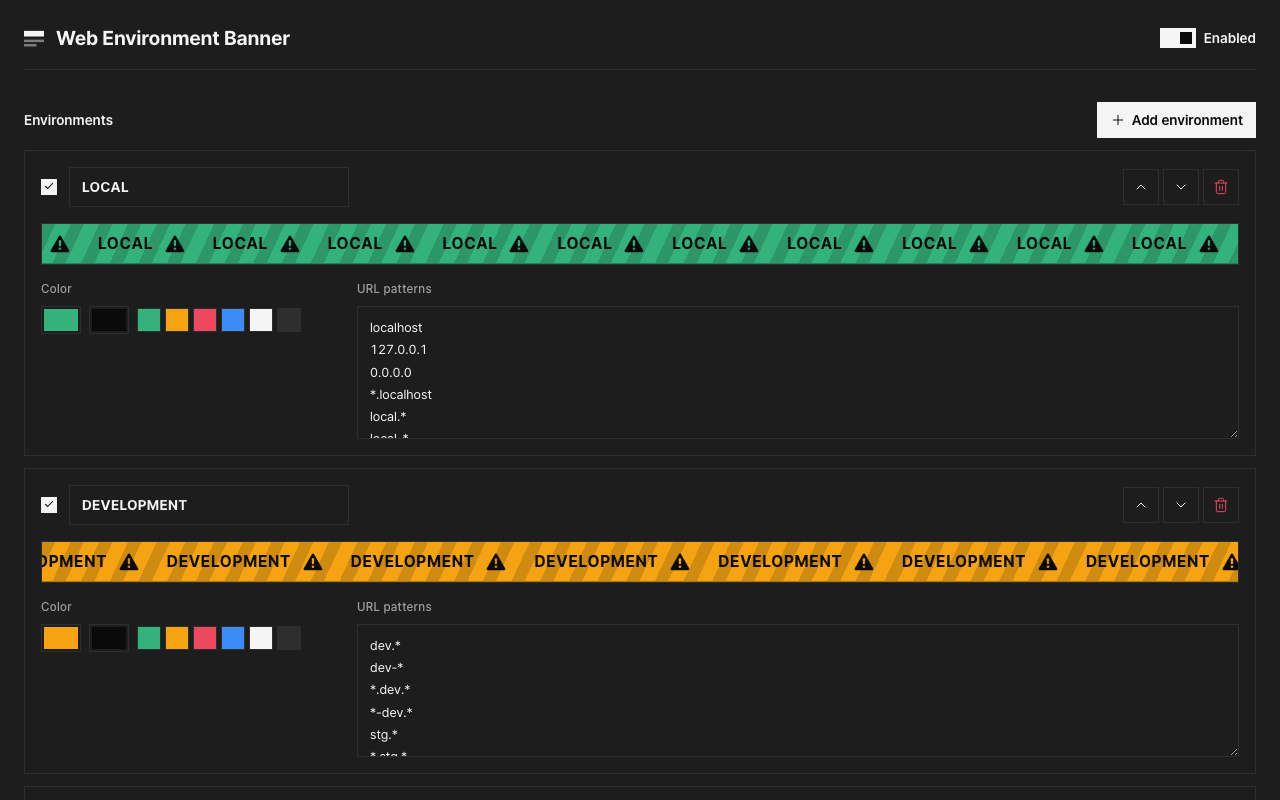
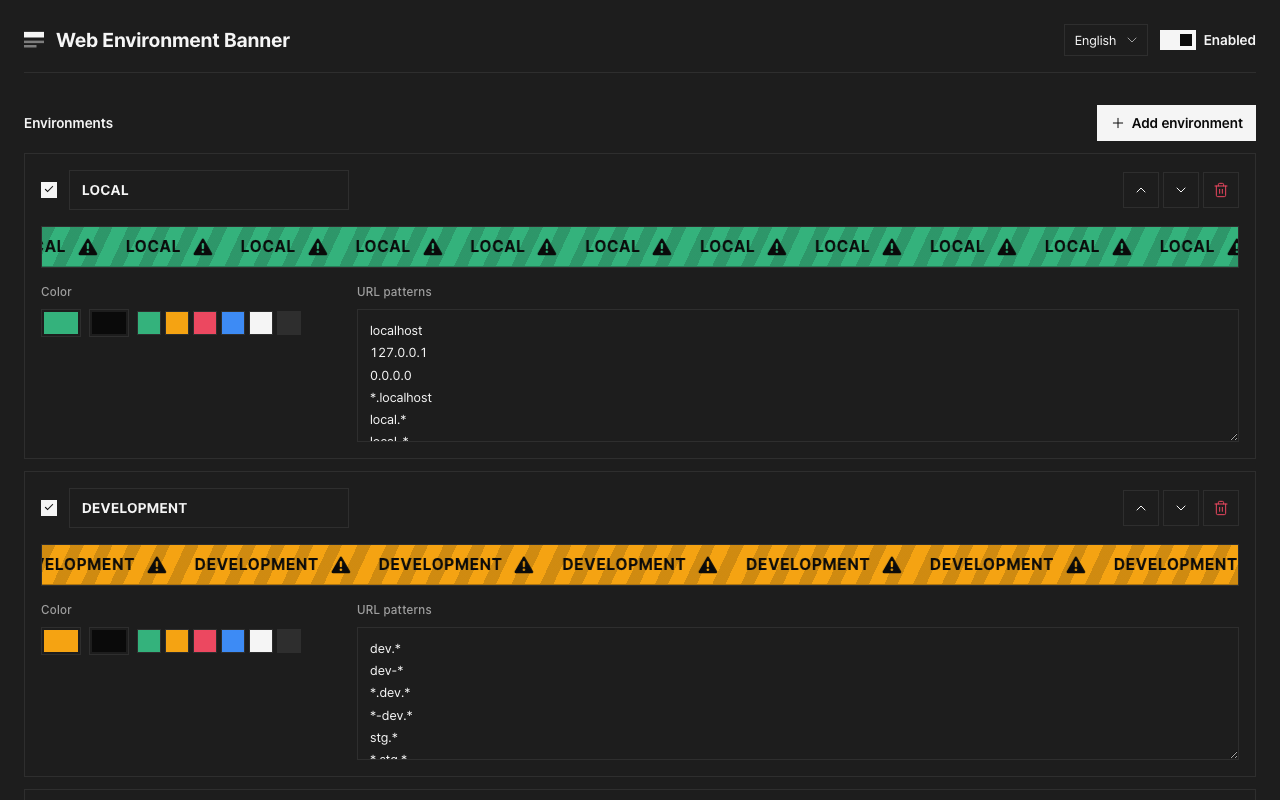
설정 화면에 UI 언어 선택기 추가 (자동 / English / 한국어)
chrome.i18n 은 브라우저 표시 언어만 따라가서, 크롬이 영어로 설정된 한국 사용자는
UI 를 한국어로 볼 방법이 없었다. UI 문자열을 src/lib/messages.js 로 옮기고
설정의 locale 값으로 런타임 전환한다.

- settings.locale: auto | en | ko (기본 auto = 브라우저 표시 언어)
- 헤더의 사용 토글 왼쪽에 언어 셀렉트 배치
- 언어 변경 시 설정 화면·팝업·배너 문자열을 즉시 재적용
- _locales 는 스토어에 노출되는 appName·appDesc 만 유지
- make-assets.sh 가 설정 화면을 영어·기본값으로 고정해 캡처 (스토어 기본 언어와 일치)
- 테스트·스토어 샷 HTML 의 스크립트 삽입 오류(리터럴 따옴표) 수정

diff --git a/src/options/options.js b/src/options/options.js
@@ -15,6 +15,7 @@
   /* id → 값 종류. state.settings 의 키와 1:1 로 맞춰 둔다. */
   const SETTING_FIELDS = {
     enabled: 'bool',
+    locale: 'text',
     position: 'text',
     direction: 'text',
     height: 'number',
@@ -224,6 +225,28 @@
     }
   });
 
+  /* ── 언어 ─────────────────────────────── */
+  function fillLocaleOptions() {
+    const el = $('#locale');
+    el.textContent = '';
+    EnvBannerI18n.LOCALES.forEach((loc) => {
+      const opt = document.createElement('option');
+      opt.value = loc.value;
+      opt.textContent = loc.label || t(loc.labelKey, 'Auto');
+      el.appendChild(opt);
+    });
+    el.value = state.settings.locale;
+  }
+
+  /* 언어가 바뀌면 화면 전체를 다시 그린다 (카드 내부 라벨·placeholder 포함) */
+  function applyLocale() {
+    EnvBannerI18n.setLocale(state.settings.locale);
+    EnvBannerI18n.apply(document);
+    fillLocaleOptions();
+    renderEnvs();
+    updateTester();
+  }
+
   /* ── 배너 설정 ─────────────────────────── */
   function fillSettings() {
     Object.keys(SETTING_FIELDS).forEach((id) => {
@@ -250,6 +273,11 @@
         const kind = SETTING_FIELDS[id];
         state.settings[id] =
           kind === 'bool' ? el.checked : kind === 'number' ? Number(el.value) : el.value;
+        if (id === 'locale') {
+          applyLocale();
+          save();
+          return;
+        }
         syncOutputs();
         updateAllPreviews();
         save();
@@ -335,9 +363,11 @@
     EnvBannerFont.ensure();
     $('#mark').innerHTML = EnvBannerIcons.MARK;
     paintIcons(document);
-    EnvBannerI18n.apply(document);
 
     state = await EnvBannerStore.get();
+    EnvBannerI18n.setLocale(state.settings.locale);
+    EnvBannerI18n.apply(document);
+    fillLocaleOptions();
     fillSettings();
     bindSettings();
     renderEnvs();
@@ -349,6 +379,9 @@
       if (JSON.stringify(cfg) === lastSavedJson) return;
       if (envList.contains(document.activeElement)) return;
       state = cfg;
+      EnvBannerI18n.setLocale(state.settings.locale);
+      EnvBannerI18n.apply(document);
+      fillLocaleOptions();
       fillSettings();
       renderEnvs();
       updateTester();

diff --git a/src/options/options.html b/src/options/options.html
@@ -13,11 +13,17 @@
       <span class="mark" id="mark"></span>
       <h1>Web Environment Banner</h1>
     </div>
-    <label class="toggle">
-      <input type="checkbox" id="enabled">
-      <span class="toggle-track"><span class="toggle-knob"></span></span>
-      <span class="toggle-label" data-i18n="optEnabled">Enabled</span>
-    </label>
+    <div class="page-title-actions">
+      <span class="select select-compact">
+        <select id="locale" aria-label="Language" data-i18n-aria="optLanguage"></select>
+        <span class="select-arrow" data-icon="chevronDown"></span>
+      </span>
+      <label class="toggle">
+        <input type="checkbox" id="enabled">
+        <span class="toggle-track"><span class="toggle-knob"></span></span>
+        <span class="toggle-label" data-i18n="optEnabled">Enabled</span>
+      </label>
+    </div>
   </header>
 
   <section class="section">
@@ -147,6 +153,7 @@
   </article>
 </template>
 
+<script src="../lib/messages.js"></script>
 <script src="../lib/i18n.js"></script>
 <script src="../lib/icons.js"></script>
 <script src="../lib/font.js"></script>

diff --git a/src/options/options.css b/src/options/options.css
@@ -78,6 +78,7 @@ h2 {
 }
 
 .page-title-main { display: flex; align-items: center; gap: 12px; }
+.page-title-actions { display: flex; align-items: center; gap: 12px; }
 .page-title h1 { font-size: 20px; font-weight: 700; letter-spacing: -0.01em; }
 
 .mark { display: inline-flex; width: 20px; height: 20px; color: var(--foreground); }
@@ -151,6 +152,10 @@ textarea.input {
   cursor: pointer;
 }
 .select select:focus-visible { outline: none; border-color: var(--ring); box-shadow: inset 0 0 0 1px var(--ring); }
+/* 헤더에 놓이는 좁은 셀렉트 */
+.select-compact select { height: 32px; padding: 0 30px 0 10px; font-size: 13px; }
+.select-compact .select-arrow { right: 8px; }
+
 .select-arrow {
   position: absolute;
   top: 50%;

diff --git a/src/content/content.js b/src/content/content.js
@@ -187,12 +187,19 @@
 
   EnvBannerStore.get().then((cfg) => {
     config = cfg;
+    EnvBannerI18n.setLocale(cfg.settings.locale);
     apply();
   });
 
   EnvBannerStore.onChange((cfg) => {
     const prev = config;
     config = cfg;
+    EnvBannerI18n.setLocale(cfg.settings.locale);
+    // 언어가 바뀌면 배너의 버튼 라벨을 다시 만들어야 한다
+    if (prev && prev.settings.locale !== cfg.settings.locale && instance) {
+      instance.destroy();
+      instance = null;
+    }
     // 높이·위치가 바뀌면 이전 보정값이 어긋나므로 걷어내고 다시 잡는다
     if (
       prev &&

diff --git a/src/lib/store.js b/src/lib/store.js
@@ -57,6 +57,7 @@
       settings[k] = source[k] !== undefined ? source[k] : D.DEFAULT_SETTINGS[k];
     });
 
+    settings.locale = ['auto', 'en', 'ko'].indexOf(settings.locale) !== -1 ? settings.locale : 'auto';
     settings.position = settings.position === 'bottom' ? 'bottom' : 'top';
     settings.direction = settings.direction === 'right' ? 'right' : 'left';
     settings.height = clampNumber(settings.height, 14, 80, D.DEFAULT_SETTINGS.height);

diff --git a/src/popup/popup.js b/src/popup/popup.js
@@ -127,9 +127,10 @@
     EnvBannerFont.ensure();
     $('#mark').innerHTML = EnvBannerIcons.MARK;
     paintIcons(document);
-    EnvBannerI18n.apply(document);
 
     config = await EnvBannerStore.get();
+    EnvBannerI18n.setLocale(config.settings.locale);
+    EnvBannerI18n.apply(document);
 
     try {
       const tabs = await chrome.tabs.query({ active: true, currentWindow: true });

diff --git a/store/shots/promo-440x280.html b/store/shots/promo-440x280.html
@@ -33,6 +33,7 @@
   <div class="frame" id="frame"></div>
   <div class="tag">로컬 · 개발 · 운영을 한눈에</div>
 
+<script src="../../src/lib/messages.js"></script>
 <script src="../../src/lib/i18n.js"></script>
 <script src="../../src/lib/icons.js"></script>
 <script src="../../src/lib/defaults.js"></script>

diff --git a/store/shots/shot3-popup.html b/store/shots/shot3-popup.html
@@ -72,6 +72,7 @@
   <iframe src="popup-frame.html" title="popup"></iframe>
 </div>
 
+<script src="../../src/lib/messages.js"></script>
 <script src="../../src/lib/i18n.js"></script>
 <script src="../../src/lib/icons.js"></script>
 <script src="../../src/lib/defaults.js"></script>

diff --git a/src/lib/defaults.js b/src/lib/defaults.js
@@ -13,6 +13,7 @@
 
   const DEFAULT_SETTINGS = {
     enabled: true,
+    locale: 'auto',       // auto | en | ko — auto 는 브라우저 표시 언어
     position: 'top',      // top | bottom
     height: 40,           // px
     fontSize: 16,         // px

diff --git a/store/shots/shot4-colors.html b/store/shots/shot4-colors.html
@@ -31,6 +31,7 @@
 
   <div class="list" id="list"></div>
 
+<script src="../../src/lib/messages.js"></script>
 <script src="../../src/lib/i18n.js"></script>
 <script src="../../src/lib/icons.js"></script>
 <script src="../../src/lib/defaults.js"></script>

diff --git a/store/shots/shot1-production.html b/store/shots/shot1-production.html
@@ -95,6 +95,7 @@
   </main>
 </div>
 
+<script src="../../src/lib/messages.js"></script>
 <script src="../../src/lib/i18n.js"></script>
 <script src="../../src/lib/icons.js"></script>
 <script src="../../src/lib/defaults.js"></script>

diff --git a/test/preview.html b/test/preview.html
@@ -36,6 +36,7 @@
   <div id="stage"></div>
 </main>
 
+<script src="../src/lib/messages.js"></script>
 <script src="../src/lib/i18n.js"></script>
 <script src="../src/lib/icons.js"></script>
 <script src="../src/lib/font.js"></script>
